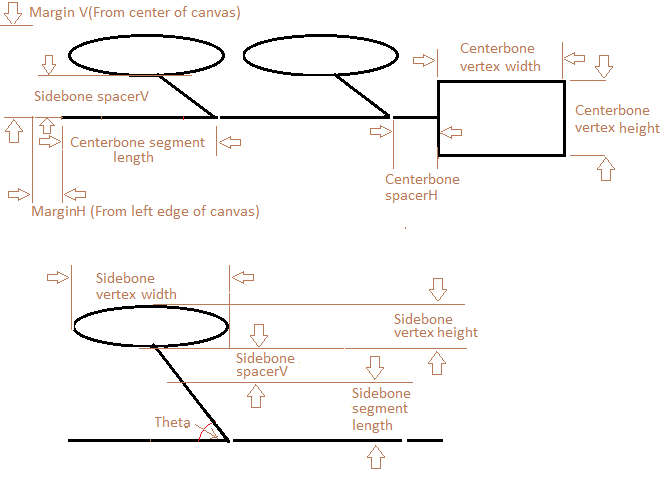
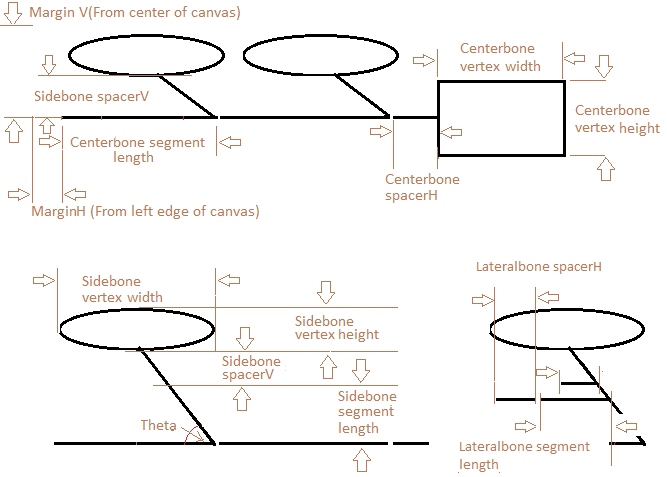
fishbone: 1)auxillary bone delete,flip and swap. 2)lateral bone label positioning.

diff --git a/javascript/fishbone/src/js/lateralBone.js b/javascript/fishbone/src/js/lateralBone.js
@@ -121,7 +121,33 @@ function LateralBone (canvas) {
     };
     
     this.compactChildBones = function(){
+        var topAuxillaryBones = this.getTopChildBones();
+        var bottomAuxillaryBones = this.getBottomChildBones();
+        this.sortBones(topAuxillaryBones);
+        this.sortBones(bottomAuxillaryBones);
         
+        var dx = this.isLeftOfParentBone()? this.boneSegmentLength() : -this.boneSegmentLength();
+        var dy = 0;
+                
+        var id=1;
+        for(var i=0; i<topAuxillaryBones.length ; i++){
+            while(topAuxillaryBones[i].getId() > id){
+                for(var j=i; j<topAuxillaryBones.length ; j++){
+                    topAuxillaryBones[j].moveBoneOnCompact(dx, dy);
+                }
+            }
+            id += 2;
+        };
+        
+        var id=2;
+        for(var i=0; i<bottomAuxillaryBones.length ; i++){
+            while(bottomAuxillaryBones[i].getId() > id){
+                for(var j=i; j<bottomAuxillaryBones.length ; j++){
+                    bottomAuxillaryBones[j].moveBoneOnCompact(dx, dy);
+                }
+            }
+            id += 2;
+        }        
     };
     
     this.getTopChildBones = function(){
@@ -182,15 +208,60 @@ function LateralBone (canvas) {
     };
     
     this.flipChildBone = function (){
+        var cell = this.graph.getSelectionCells()[0];
+        if(!this.canFlipChildBone(cell)) return;
         
+        this.graph.getModel().beginUpdate();
+        try
+        {
+            var boneToFlip = this.getChildBoneFromCell(cell); 
+            if(boneToFlip !== null){
+                boneToFlip.flipBone();
+                this.compactChildBones();
+                this.positionBone();
+                this.sortBones(this.childBones);
+                this.graph.removeSelectionCells(cell);
+            };
+        }
+        finally
+        {
+           this.graph.getModel().endUpdate();
+        };
     };
     
     this.swapChildBones = function(){
-        
+        var cells = this.graph.getSelectionCells();
+        this.graph.getModel().beginUpdate();
+        try
+        {
+            var childBoneToSwap1 = this.getChildBoneFromCell(cells[0]); 
+            var childBoneToSwap2 = this.getChildBoneFromCell(cells[1]); 
+            if(childBoneToSwap1 !== null && childBoneToSwap2 !== null){
+                childBoneToSwap1.swapBones(childBoneToSwap2);
+            };
+            this.graph.removeSelectionCells(cells);
+        }
+        finally
+        {
+           this.graph.getModel().endUpdate();
+        }
     };
     
-    this.canFlipChildBone = function(cells){
-        
+    this.canFlipChildBone = function(cell){
+        for(var i = 0; i < this.childBones.length; i++)
+        {
+            var childbone = this.childBones[i];
+            if(childbone.getVertex() !== cell){
+                if(childbone.isAboveParentBone() && childbone.getId() === cell.getValue().id - 1){
+                    Utils.showMessageDialog(Messages.FLIP_POSITION_NOT_EMPTY);
+                    return false;
+                }else if(!childbone.isAboveParentBone() && childbone.getId() === cell.getValue().id + 1){
+                    Utils.showMessageDialog(Messages.FLIP_POSITION_NOT_EMPTY);
+                    return false;
+                };
+            };
+        };
+        return true;
     };
     
     this.canSwapChildBones = function(cells){

diff --git a/javascript/fishbone/src/js/auxillaryBone.js b/javascript/fishbone/src/js/auxillaryBone.js
@@ -32,7 +32,7 @@ function AuxillaryBone (canvas) {
         var counter  = this.parentBone.getChildBones().length + 1;
         
         var valueObject =   {
-                                toString:function(){return 'SubDetail-' + counter;},
+                                toString:function(){return 'Sub-' + counter;},
                                 cellType:GraphSettings.AUXILLARYBONE_EDGE,
                                 bone:this,
                                 id:id
@@ -42,10 +42,9 @@ function AuxillaryBone (canvas) {
         
         geometry.sourcePoint = new mxPoint(0, 0);
         geometry.targetPoint = new mxPoint(0, 0);
+       
         
-        var style = (id % 2 !== 0)
-                    ? GraphSettings.STYLE_MAP.get(GraphSettings.AUXILLARYBONE_EDGE) + "verticalAlign=bottom;"
-                    : GraphSettings.STYLE_MAP.get(GraphSettings.AUXILLARYBONE_EDGE) + "verticalAlign=top;"
+        var style = GraphSettings.STYLE_MAP.get(GraphSettings.AUXILLARYBONE_EDGE);
         var cell = new mxCell(valueObject, geometry, style);
         cell.edge = true;
         cell.parent = this.graphParent;
@@ -61,9 +60,9 @@ function AuxillaryBone (canvas) {
         
         var sourceX =  (this.parentBone.getId() % 2 !== 0)
                         ?   this.parentBone.getEdge().getGeometry().sourcePoint.x 
-                            - this.parentBone.spacerH() - Math.floor(this.parentBone.boneSegmentLength() * Math.ceil(this.getId()/2)/ Math.tan(this.edgeTheta()))
+                            - this.parentBone.spacerH() - this.parentBone.boneSegmentLength()  * (Math.ceil(this.getId()/2)-1)
                         : this.parentBone.getEdge().getGeometry().sourcePoint.x 
-                            + this.parentBone.spacerH() + Math.floor(this.parentBone.boneSegmentLength() * Math.ceil(this.getId()/2)/ Math.tan(this.edgeTheta()));
+                            + this.parentBone.spacerH() + this.parentBone.boneSegmentLength()  * (Math.ceil(this.getId()/2)-1);
         
         var sourceY = this.parentBone.getEdge().getGeometry().sourcePoint.y;  
         
@@ -77,6 +76,10 @@ function AuxillaryBone (canvas) {
                     : geometry.sourcePoint.y + this.boneSegmentLength();
        
         geometry.targetPoint = new mxPoint(targetX, targetY);
+        
+        geometry.relative = true;
+        geometry.x = 1;
+        geometry.y = 1;
         
         this.graph.getModel().setGeometry(this.edge, geometry);
     };

diff --git a/javascript/fishbone/src/js/graphSettings.js b/javascript/fishbone/src/js/graphSettings.js
@@ -7,17 +7,17 @@ GraphSettings.DEFAULT_CENTERBONE_VERTEX_SHAPE = "rectangle";
 GraphSettings.DEFAULT_SIDEBONE_VERTEX_SHAPE = "ellipse";
 GraphSettings.DEFAULT_MARGIN_H = 75;
 GraphSettings.DEFAULT_MARGIN_V = 0;
-GraphSettings.DEFAULT_CENTERBONE_SPACER_H = 50;
+GraphSettings.DEFAULT_CENTERBONE_SPACER_H = 75;
 GraphSettings.DEFAULT_CENTERBONE_SEGMENT_LENGTH = 175;
-GraphSettings.DEFAULT_CENTERBONE_VERTEX_WIDTH = 130;
-GraphSettings.DEFAULT_CENTERBONE_VERTEX_HEIGHT = 50;
+GraphSettings.DEFAULT_CENTERBONE_VERTEX_WIDTH = 100;
+GraphSettings.DEFAULT_CENTERBONE_VERTEX_HEIGHT = 60;
 GraphSettings.DEFAULT_SIDEBONE_SPACER_V = 50;
 GraphSettings.DEFAULT_SIDEBONE_SEGMENT_LENGTH = 50;
 GraphSettings.DEFAULT_SIDEBONE_VERTEX_WIDTH = 150;
 GraphSettings.DEFAULT_SIDEBONE_VERTEX_HEIGHT = 35;
 GraphSettings.DEFAULT_LATERALBONE_SPACER_H = 50;
-GraphSettings.DEFAULT_LATERALBONE_SEGMENT_LENGTH = 70;
-GraphSettings.DEFAULT_AUXILLARYBONE_SEGMENT_LENGTH = 25;
+GraphSettings.DEFAULT_LATERALBONE_SEGMENT_LENGTH = 50;
+GraphSettings.DEFAULT_AUXILLARYBONE_SEGMENT_LENGTH = 35;
 GraphSettings.DEFAULT_THETA = 60;
 
 
@@ -35,7 +35,8 @@ GraphSettings.buildStyleMap = function(){
     GraphSettings.STYLE_MAP.set(GraphSettings.CENTERBONE_EDGE, 'curved=1;endArrow=classic;html=1;movable=0;resizable=0;selectable=1;');
     GraphSettings.STYLE_MAP.set(GraphSettings.SIDEBONE_EDGE, 'endArrow=classic;html=1;movable=0;resizable=0;selectable=1;');
     GraphSettings.STYLE_MAP.set(GraphSettings.LATERALBONE_EDGE, 'startArrow=classic;endArrow=none;html=1;verticalAlign=bottom;movable=0;resizable=0;selectable=1;');
-    GraphSettings.STYLE_MAP.set(GraphSettings.AUXILLARYBONE_EDGE, 'startArrow=none;endArrow=none;html=1;movable=0;resizable=0;selectable=1;');
+    GraphSettings.STYLE_MAP.set(GraphSettings.AUXILLARYBONE_EDGE, 'startArrow=none;endArrow=classic;html=1;movable=0;resizable=0;selectable=1;');
+    
 };
 
 GraphSettings.restoreDefaults = function(){

diff --git a/javascript/fishbone/src/js/graphConfiguration.js b/javascript/fishbone/src/js/graphConfiguration.js
@@ -18,22 +18,16 @@ function GraphConfiguration(graphElement)
         this.canvas = canvas;
         
         this.graph = graph;
-        
         new mxRubberband(this.graph);
-        
         this.graph.setTooltips(true);
-        
         this.graph.setCellsCloneable(false);
+        this.graph.vertexLabelsMovable = true;
         
-        this.graph.getTooltipForCell = function(cell)
-        {
-          if(cell.isVertex()){
-            return Messages.VERTEX_TOOLTIP;
-            };
+        this.graph.getTooltipForCell = function(cell){
+          if(cell.isVertex()){return Messages.VERTEX_TOOLTIP;};
         };
 
         this.graph.popupMenuHandler.autoExpand = true;
-
         this.graph.popupMenuHandler.factoryMethod = function(menu, cell, evt)
         {
             if(cell === null 

diff --git a/javascript/fishbone/src/js/canvas.js b/javascript/fishbone/src/js/canvas.js
@@ -41,6 +41,7 @@ function Canvas () {
     };
     
     this.onContextMenuDeleteClick = function(){
+        this.onDeleteSubDetailClick();
         this.onDeleteDetailClick();
         this.onDeleteCauseClick();
     };
@@ -95,7 +96,7 @@ function Canvas () {
         var sideBones = this.centerBone.getChildBones();
         var lateralBones=[];
         sideBones.forEach(function(sideBone){
-            lateralBones.concat(sideBone.getChildBones())
+            lateralBones.push.apply(lateralBones, sideBone.getChildBones());
         });
         lateralBones.forEach(function(lateralBone){
             if(lateralBone.getSelectedChildBones().length > 0){
